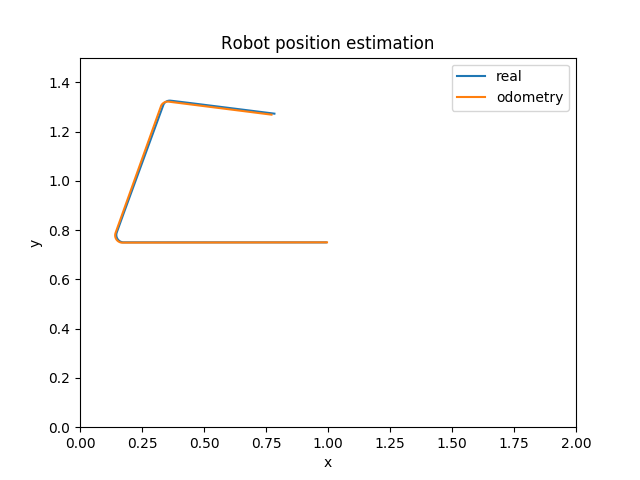
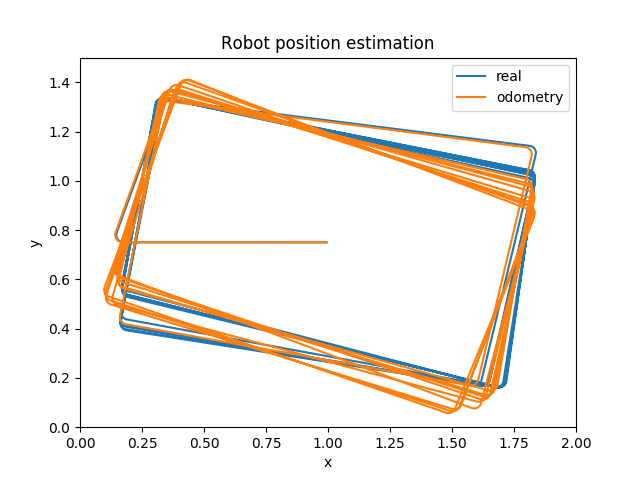
Collect data.

Changed region(s): [[0.1562, 0.1562, 0.8438, 0.875]]

diff --git a/src/obstacle_avoid_test.py b/src/obstacle_avoid_test.py
@@ -4,6 +4,7 @@
 #  from controller import Robot, LED, DistanceSensor
 from controller import Supervisor
 from odometry import Odometry
+from data_collector import DataCollector
 import matplotlib.pyplot as plt
 import numpy as np
 # os.environ['TF_CPP_MIN_LOG_LEVEL'] = '2'
@@ -35,11 +36,15 @@ timestep = int(robot.getBasicTimeStep())
 
 x = []
 y = []
+theta = []
+distance_sensors_info = []
 
 x_odometry = []
 y_odometry = []
 theta_odometry = []
 sensorNames = ['ds0', 'ds1', 'ds2', 'ds3', 'ds4', 'ds5', 'ds6', 'ds7']
+
+data_collector = DataCollector()
 
 def init():
     compass.enable(timestep)
@@ -70,17 +75,32 @@ def get_bearing_degrees():
 def step():
     return (robot.step(timestep) != -1)
     
-def get_supervisor_coordinates():
+def save_supervisor_coordinates():
     # true robot position information
     trans_info = robot_trans.getSFVec3f()
     x_coordinate, y_coordinate = robot_to_xy(trans_info[2], trans_info[0])
     x.append(x_coordinate)
     y.append(y_coordinate)
+    theta.append((get_bearing_degrees()))
 
-def get_odometry_coordinates(coordinate):
+
+def save_odometry_coordinates(coordinate):
+    # convert robot coordinates into global coordinate system
     x_odometry.append(1 - coordinate.x)
     y_odometry.append(0.75 - coordinate.y)
-    theta_odometry.append(coordinate.theta)
+    theta_odometry.append(convert_angle_to_xy_coordinates(coordinate.theta))
+
+def save_sensor_distances(distanceSensors):
+    distances = []
+    for distanceSensor in distanceSensors:
+        distance = distanceSensor.getValue()
+
+        #there is no real messure.
+        if distance == 10:
+            distance = None
+        distances.append(distance)
+    distance_sensors_info.append(distances)
+
 
 def get_sensor_distance():
     # Read the sensors, like:
@@ -91,7 +111,8 @@ def get_sensor_distance():
         sensor.enable(timestep)
         distanceSensors.append(sensor)
     return distanceSensors
-    
+
+
 def calculate_velocity(distanceSensors):
     # Process sensor data here
     sensorValues = [distanceSensor.getValue() for distanceSensor in distanceSensors]
@@ -101,7 +122,7 @@ def calculate_velocity(distanceSensors):
   
     left_speed = .5 * MAX_SPEED
     right_speed = .5 * MAX_SPEED
-    # avoiid collitoin
+    # avoid collition
     if leftObstacle:
         left_speed += .7 * MAX_SPEED
         right_speed -= .7 * MAX_SPEED
@@ -110,6 +131,15 @@ def calculate_velocity(distanceSensors):
         right_speed += .7 * MAX_SPEED
         
     return left_speed, right_speed
+
+
+def convert_angle_to_xy_coordinates(angle):
+    angle = angle*180/np.pi
+    angle = angle - 180
+    if angle < 0.0:
+        angle += 360
+    return angle
+
 
 def plot():
     # Enter here exit cleanup code.
@@ -122,9 +152,9 @@ def plot():
     plt.title("Robot position estimation")
     plt.legend()
     plt.savefig("results/position.png")
-    
-def main():
 
+
+if __name__ == '__main__':
     init()
     step()
     odometry = Odometry(ENCODER_UNIT * (positionLeft.getValue()),
@@ -136,12 +166,20 @@ def main():
                                           ENCODER_UNIT * (positionRight.getValue()))
 
         if not step():
+            # print('saving data')
+            data_collector.collect(x_odometry, y_odometry, theta_odometry, x, y, theta, np.array(distance_sensors_info))
             plot()
-        get_supervisor_coordinates()
-        get_odometry_coordinates(odometry_info)
+
         distanceSensors = get_sensor_distance()
+
+        # collect data
+        save_sensor_distances(distanceSensors)
+        save_odometry_coordinates(odometry_info)
+        save_supervisor_coordinates()
+
+        # calculate new velocity
         left_speed, right_speed = calculate_velocity(distanceSensors)
         motorLeft.setVelocity(left_speed)
         motorRight.setVelocity(right_speed)
 
-main()
+

diff --git a/src/data_collector.py b/src/data_collector.py
@@ -1,0 +1,28 @@
+import pandas as pd
+
+
+class DataCollector:
+
+    def collect(self, estimated_x, estimated_y, estimated_theta, real_x, real_y, real_theta, distances):
+
+        path = 'results/robot_info_dataset.csv'
+        data = {
+            'x': real_x,
+            'y': real_y,
+            'theta': real_theta,
+            'estimated_x': estimated_x,
+            'estimated_y': estimated_y,
+            'estimated_theta': estimated_theta,
+            'sensor_1': distances[:, 0],
+            'sensor_2': distances[:, 1],
+            'sensor_3': distances[:, 2],
+            'sensor_4': distances[:, 3],
+            'sensor_5': distances[:, 4],
+            'sensor_6': distances[:, 5],
+            'sensor_7': distances[:, 6],
+            'sensor_8': distances[:, 7]
+        }
+
+        df = pd.DataFrame(data)
+        df.to_csv(path)
+        print('data collected in', path)

diff --git a/src/odometry.py b/src/odometry.py
@@ -12,7 +12,8 @@ class Odometry:
         self.scaling_factor = .8662
         # self.scaling_factor = .8662
         self.wheels_state = WheelsState()
-        self.coordinate = Coordinate(0, 0, 6.19)
+        # angle adjustment to coordinates x, y
+        self.coordinate = Coordinate(0, 0, 6.1882401554323)
 
         self.wheels_state.pos_left_prev = int(pos_left)
         self.wheels_state.pos_right = int(pos_right)
